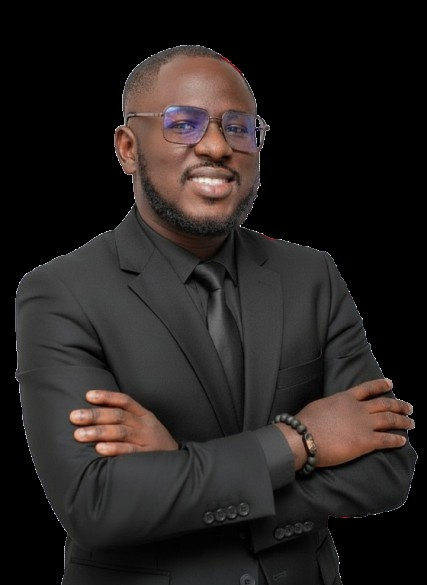
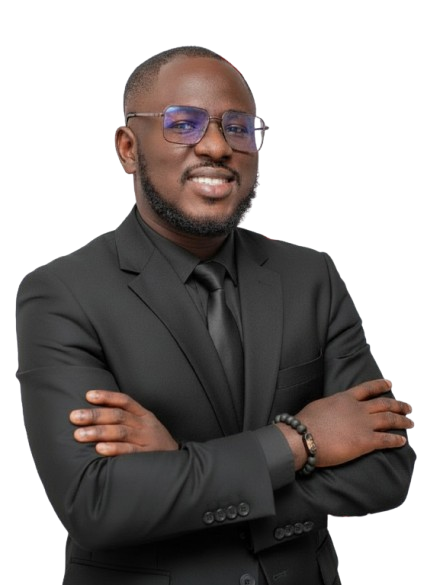
style: update theme to dark green and neon to match user example

diff --git a/src/styles/_header.scss b/src/styles/_header.scss
@@ -67,13 +67,26 @@
 
     .accent-shape {
       position: absolute;
-      width: 400px;
-      height: 400px;
-      background: rgba(237, 25, 68, 0.1); // subtle red glow
-      border: 3px solid var(--accent-color);
-      border-radius: 40% 60% 70% 30% / 40% 50% 60% 50%;
+      width: 420px;
+      height: 420px;
+      background: #1b2e25; // Dark forest green from your example
+      border-radius: 24px;
       z-index: 1;
-      animation: morph 8s ease-in-out infinite;
+      
+      // The neon green swish effect
+      &::after {
+        content: "";
+        position: absolute;
+        width: 110%;
+        height: 80%;
+        top: 10%;
+        left: -5%;
+        border: 4px solid #6ee7b7; // Neon green
+        border-radius: 50%;
+        clip-path: polygon(0 0, 100% 0, 100% 70%, 0 70%); // Creates the "swish" look
+        filter: blur(1px) drop-shadow(0 0 8px #6ee7b7);
+        transform: rotate(-15deg);
+      }
 
       @include responsive(mobile) {
         width: 300px;
@@ -87,9 +100,8 @@
       z-index: 2;
       border-radius: 20px;
       filter: none;
-      mix-blend-mode: normal;
-      border: 8px solid rgba(255, 255, 255, 0.1);
-      box-shadow: 0 20px 40px rgba(0, 0, 0, 0.4);
+      mix-blend-mode: multiply; // Blends the white background into the dark green box
+      opacity: 0.95;
 
       @include responsive(mobile) {
         width: 250px;

diff --git a/src/styles/_global.scss b/src/styles/_global.scss
@@ -1,9 +1,9 @@
 :root {
   --bg-color: #1a1a1a;
   --text-color: #d7d7d7;
-  --heading-color: #ed1944;
+  --heading-color: #6ee7b7;
   --card-bg: #262626;
-  --accent-color: #ed1944;
+  --accent-color: #6ee7b7;
   --secondary-gray: #727576;
   --border-color: rgba(255, 255, 255, 0.1);
 }
@@ -11,9 +11,9 @@
 body.light-mode {
   --bg-color: #ffffff;
   --text-color: #2d2d2d; // Dark charcoal for better visibility
-  --heading-color: #ed1944;
+  --heading-color: #059669; // Darker green for light mode
   --card-bg: #f9f9f9;
-  --accent-color: #ed1944;
+  --accent-color: #059669;
   --secondary-gray: #555555; // Darker gray for visibility
   --border-color: rgba(0, 0, 0, 0.1);
 }

diff --git a/src/styles/_variables.scss b/src/styles/_variables.scss
@@ -1,4 +1,4 @@
-$primary-color: #ed1944; // Red accent
+$primary-color: #6ee7b7; // Green accent
 $secondary-color: #727576; // Gray accent
 $text-color: #d7d7d7; // Light gray text
 $bg-dark: #1a1a1a;